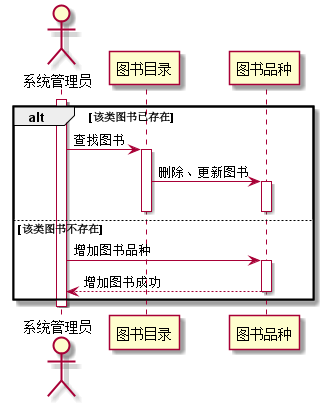
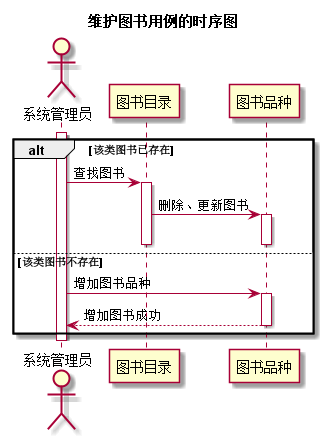
test4

Changed region(s): [[0.0309, 0.0, 0.9877, 0.9754], [0.2778, 0.0296, 0.7407, 0.0887], [0.7407, 0.6207, 0.8642, 0.6798]]

diff --git a/README.md b/README.md
@@ -1,1 +1,103 @@
-# is_analysis
+# 实验5：图书管理系统数据库设计与界面设计
+
+## 1.数据库表设计
+
+## 1.1. 图书表
+|字段|类型|主键，外键|可以为空|默认值|约束|说明|
+|:-------:|:-------------:|:------:|:----:|:---:|:----:|:-----|
+|ISBN|varchar2(100)|主键|否||||
+|Name|varchar2(100)| |否||||
+|Memo|varchar2(100)| |是||||
+
+## 1.2. ***表
+|字段|类型|主键，外键|可以为空|默认值|约束|说明|
+|:-------:|:-------------:|:------:|:----:|:---:|:----:|:-----|
+|ISBN|varchar2(100)|主键|否||||
+|Name|varchar2(100)| |否||||
+|Memo|varchar2(100)| |是||||
+
+***
+
+## 2. 界面设计
+## 2.1. 借书界面设计
+![pic1](pic1.png)
+- 用例图参见：借书用例
+- 类图参见：借书类，读者类
+- 顺序图参见：借书顺序图
+- API接口如下：
+
+1. 获取全部分类
+
+- 功能：用于获取全部分类
+- 请求地址： http://[YOUR_DOMAIN]/v1/api/shop_cate
+- 请求方法：POST
+- 请求参数：
+
+|参数名称|必填|说明|
+|:-------:|:-------------: | :----------:|
+|access_token|是|用于验证请求合法性的认证信息。 |
+|method|是|固定为 “GET”。|
+
+- 返回实例：
+```
+{
+    "info": "感谢您的支持。",
+    "data": {
+        "nickname": "O记_Mega可达鸭",
+        "uid": "14361",
+        "signature": "呀  一不小心就进化了",
+        "score1": "322",
+        "real_nickname": "O记_Mega可达鸭",
+        "title": "Lv3 转正",
+        "avatar128": "http://upload.opensns.cn/Uploads_Avatar_14361_58e4b58fccf81.jpg?imageMogr2/crop/!260x260a6a22/thumbnail/128x128!",
+        "avatar512": "http://upload.opensns.cn/Uploads_Avatar_14361_58e4b58fccf81.jpg?imageMogr2/crop/!260x260a6a22/thumbnail/512x512!"
+    },
+    "code": 200
+}
+```
+- 返回参数说明：
+    
+|参数名称|说明|
+|:-------:|:-------------: |
+|Info|返回信息|
+|data|用户的个人信息|
+|dodo|返回码|
+
+2. *******API
+- 功能：用于获取全部分类
+- 请求地址： http://[YOUR_DOMAIN]/v1/api/shop_cate
+- 请求方法：POST
+- 请求参数：
+
+|参数名称|必填|说明|
+|:-------:|:-------------: | :----------:|
+|access_token|是|用于验证请求合法性的认证信息。 |
+|method|是|固定为 “GET”。|
+
+- 返回实例：
+```
+{
+    "info": "感谢您的支持。",
+    "data": {
+        "nickname": "O记_Mega可达鸭",
+        "uid": "14361",
+        "signature": "呀  一不小心就进化了",
+        "score1": "322",
+        "real_nickname": "O记_Mega可达鸭",
+        "title": "Lv3 转正",
+        "avatar128": "http://upload.opensns.cn/Uploads_Avatar_14361_58e4b58fccf81.jpg?imageMogr2/crop/!260x260a6a22/thumbnail/128x128!",
+        "avatar512": "http://upload.opensns.cn/Uploads_Avatar_14361_58e4b58fccf81.jpg?imageMogr2/crop/!260x260a6a22/thumbnail/512x512!"
+    },
+    "code": 200
+}
+```
+- 返回参数说明：
+    
+|参数名称|说明|
+|:-------:|:-------------: |
+|Info|返回信息|
+|data|用户的个人信息|
+|dodo|返回码|
+
+
+ # is_analysis

diff --git a/test4/README.md b/test4/README.md
@@ -139,7 +139,7 @@ deactivate 图书管理员
 
 ``` sequence
 @startuml
-title 图书预定的时序图
+title 图书预定用例的时序图
 actor 读者
 读者->图书管理系统 :登录
 activate 读者
@@ -201,6 +201,7 @@ deactivate 读者
 
 ``` sequence
 @startuml
+title 维护图书用例的时序图
 actor 系统管理员
 alt 该类图书已存在
 activate 系统管理员
@@ -226,10 +227,11 @@ deactivate 系统管理员
     1、系统管理员维护图书，如果该类图书已近存在，则只需要通过图书目录查到到该类图书，然后进行删除、更新操作
     2、如果该类图书不存在，则需要增加该图书品种，并返回增加图书成功的消息
 ***
-## 5.1. 维护图书用例PlantUML源码
+## 5.1. 维护读者信息用例PlantUML源码
 
 ``` sequence
 @startuml
+title 维护读者信息用例的时序图
 actor 系统管理员
 alt 该读者已存在
 activate 系统管理员
@@ -246,10 +248,10 @@ end
 deactivate 系统管理员
 @enduml
 ```
-## 5.2. 维护图书用例顺序图
+## 5.2. 维护读者信息用例顺序图
 ![class](5.png)
 
-## 5.3. 维护图书用例顺序图说明
+## 5.3. 维护读者信息用例顺序图说明
     1、系统管理员维护读者，如果该读者信息已近存在，则执行查找、删除、更新操作，并返回维护读者信息成功的消息
     2、如果该读者不存在，则需要增加该读者，并返回增加读者成功的消息
 ***
